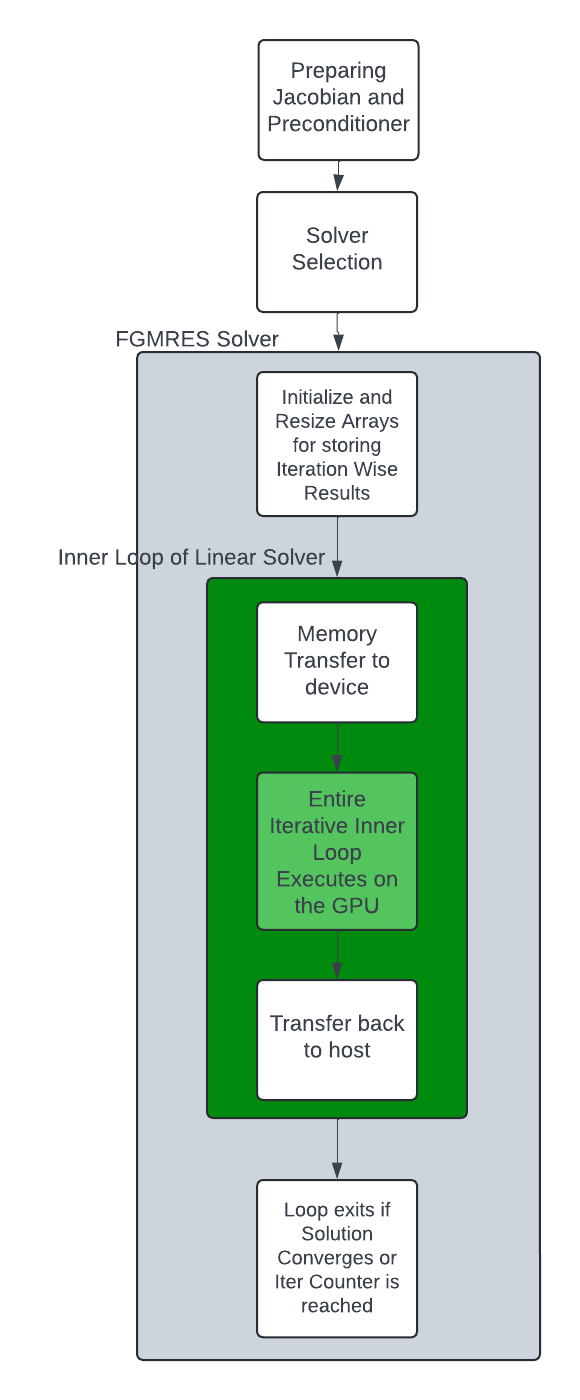
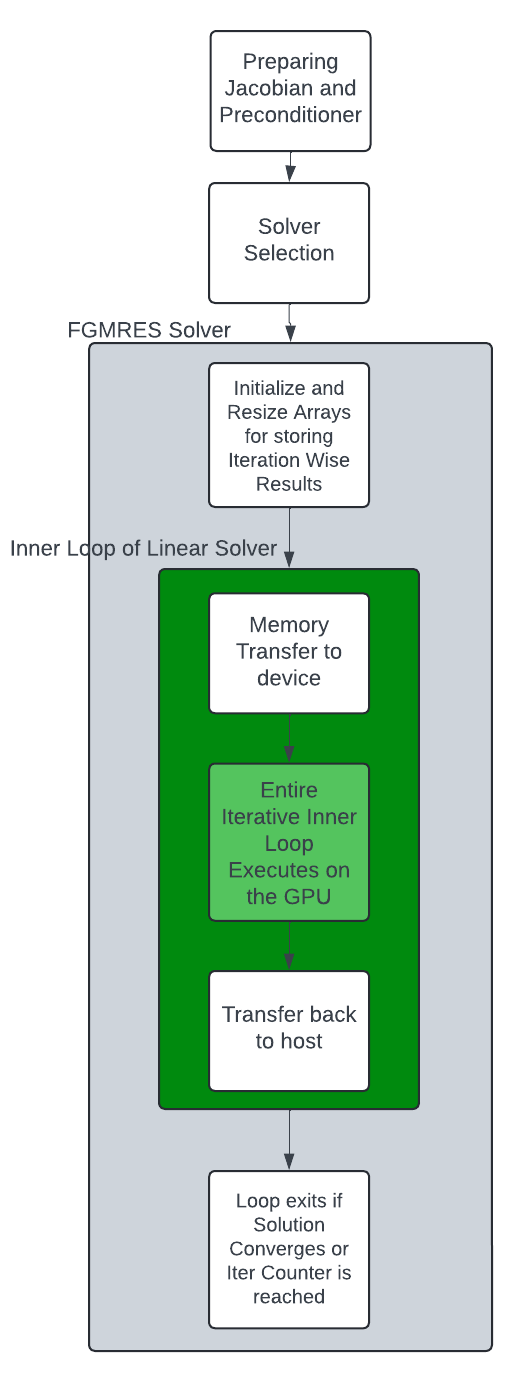
Image Changes

Changed region(s): [[0.0307, 0.0, 0.9502, 0.9985]]

diff --git a/README.md b/README.md
@@ -148,7 +148,7 @@ Our current direction happens to be to cut down on the transfers by porting not 
 
 The algorithm would be changed approximately to what is represented below.
 
-![alt text](Docs/Report/Future_Implementation.png)
+<img src="Docs/Report/Future_Implementation.png" width="300">
 
 This should alleviate the issue of expensive memory transfers to the device to a sizeable extent, firther providing a performance uplift. **This line of work will be pursued even after the finishing of the GSoC Program**
 
